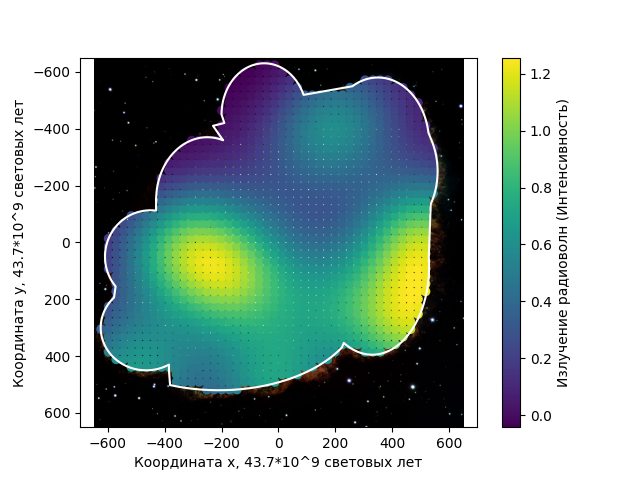
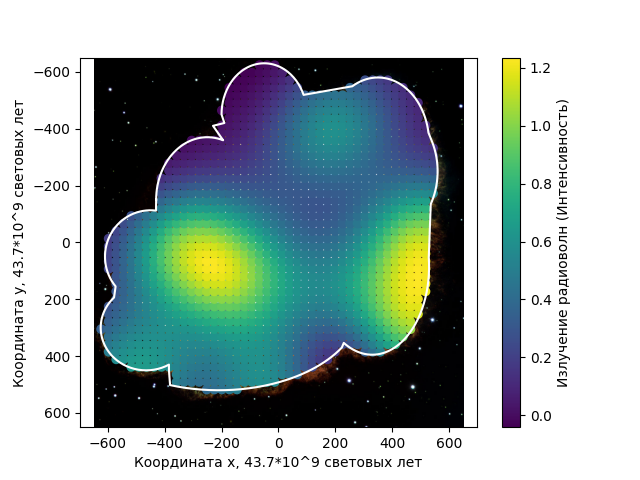
2132131

diff --git a/homework_crab_nebula_scalar_fields.py b/homework_crab_nebula_scalar_fields.py
@@ -115,11 +115,11 @@ def bell_function(x, y, intensity=1, dec_rate=[0.5, 0.5]):
     scalar_field = intensity*np.exp(-dec_rate[0] * x**2 - dec_rate[1] * y**2)
     return scalar_field
 
-intensity_centrums_x = [-350, -150, 480, 520, -500, -10, 200, 300, 450, -400, -50, -500, 200, 0]            
+intensity_centrums_x = [-350, -150, 480, 520, -500, -10, 200, 300, 450, -400, -50, -500, 200, 0, 200]            
 
-intensity_centrums_y = [0, 125, 300, 0, 450, 500, -400, -250, -50, -200, -600, -150, 200, -200]
+intensity_centrums_y = [0, 125, 300, 0, 450, 500, -400, -250, -50, -200, -600, -150, 200, -200, 400]
 
-intensity_values = [90, 90, 100, 100, 70, 70, 70, -10, 10, -10, -10, -10, 50, 10]
+intensity_values = [90, 90, 100, 100, 70, 70, 70, -10, 10, -10, -10, -10, 50, 10, -50]
 
 def scalar_function(x, y, int_cen_x, int_cen_y, int_vel):
     scalar_field = 0
